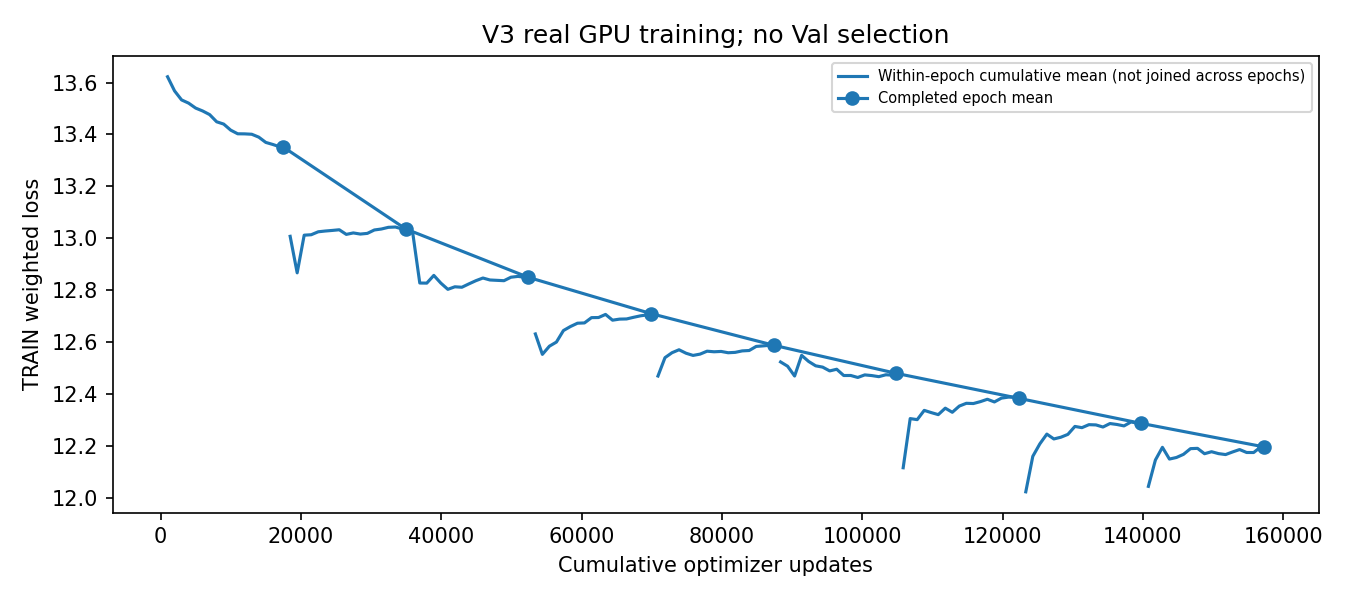
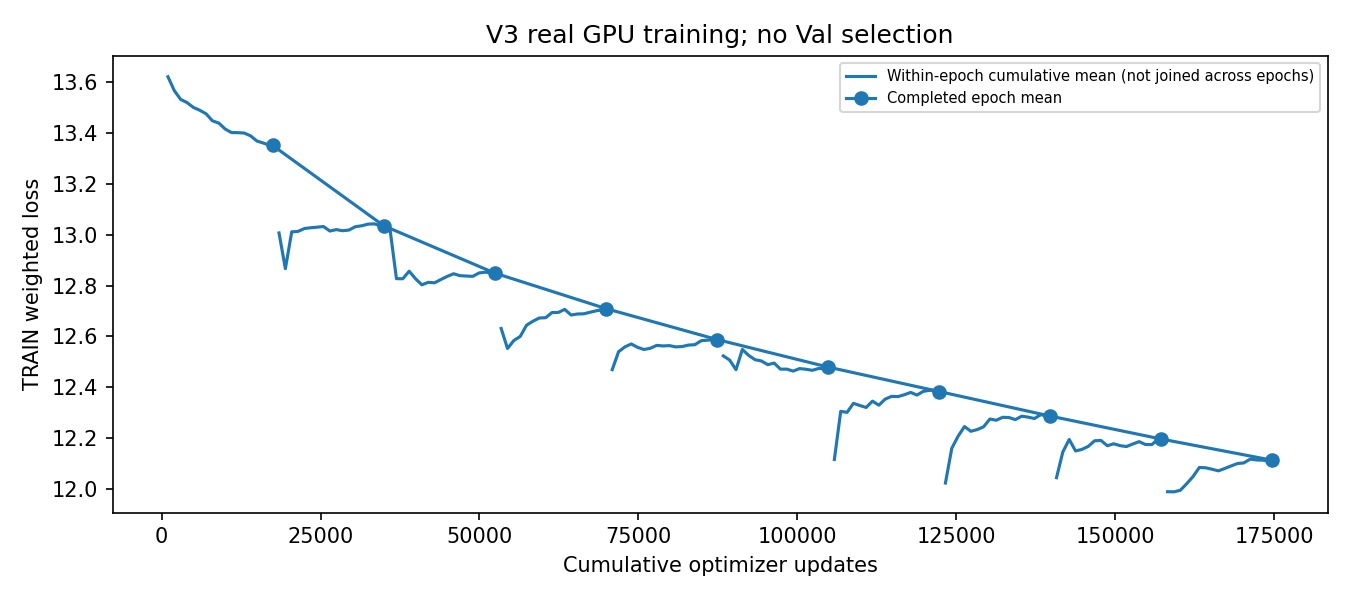
reports(v3): record ten completed full training epochs

diff --git a/reports/unified_pgvb/v3_full_training/REPORT_zh.md b/reports/unified_pgvb/v3_full_training/REPORT_zh.md
@@ -2,7 +2,7 @@
 
 完整TRAIN输入21878条；本阶段拟合17473条、物理目标留出4405条，物理分组重叠0。初始化V2曾使用TRAIN，内部留出不是完全未见泛化。
 
-当前已完成完整Epoch：9；训练结束：False。
+当前已完成完整Epoch：10；训练结束：False。
 
 Geometry和轻量视觉模块训练，BERT/SigLIP2冻结并读取缓存；seed42，原权重保留。四小时累计训练预算，至少三轮后连续两轮相对Loss改善<0.5%提前停止。未修改Stop=0.3、1mm守卫或Horizon。
 
@@ -19,6 +19,7 @@ Geometry和轻量视觉模块训练，BERT/SigLIP2冻结并读取缓存；seed42
 |7|17473|12.383111|757.38|0.144|
 |8|17473|12.286377|766.43|0.144|
 |9|17473|12.195989|776.39|0.144|
+|10|17473|12.112471|775.50|0.144|
 
 ![训练Loss](training_loss.png)
 ![Loss分量](loss_components.png)
